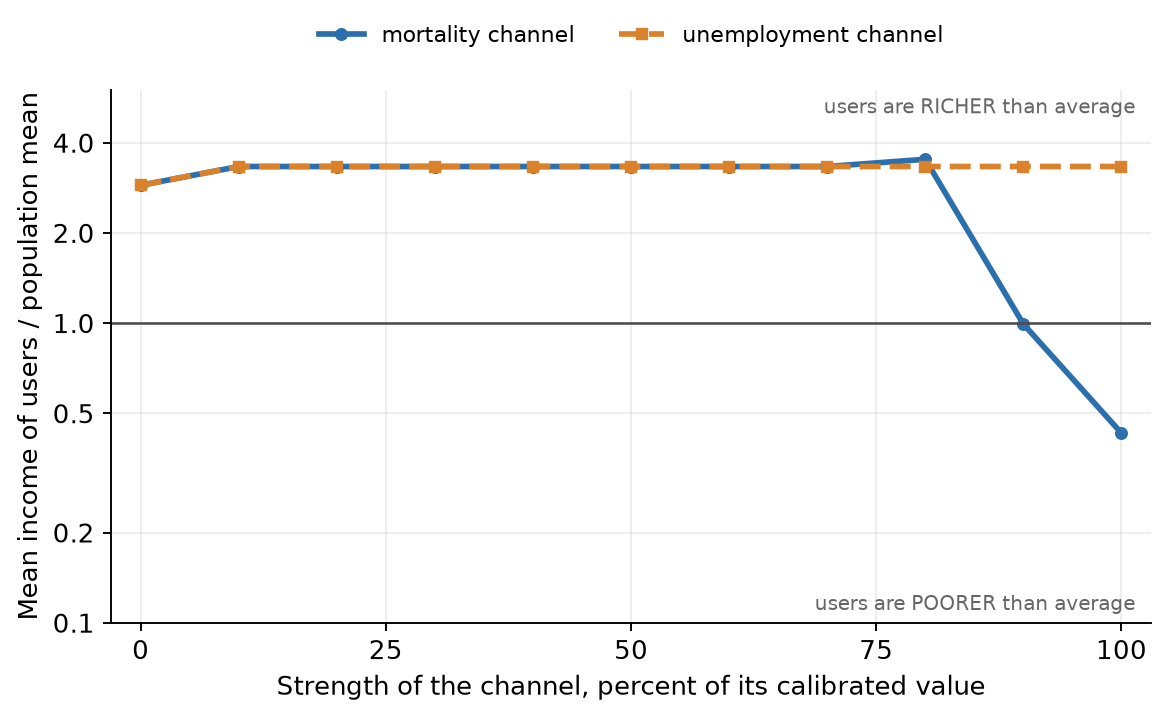
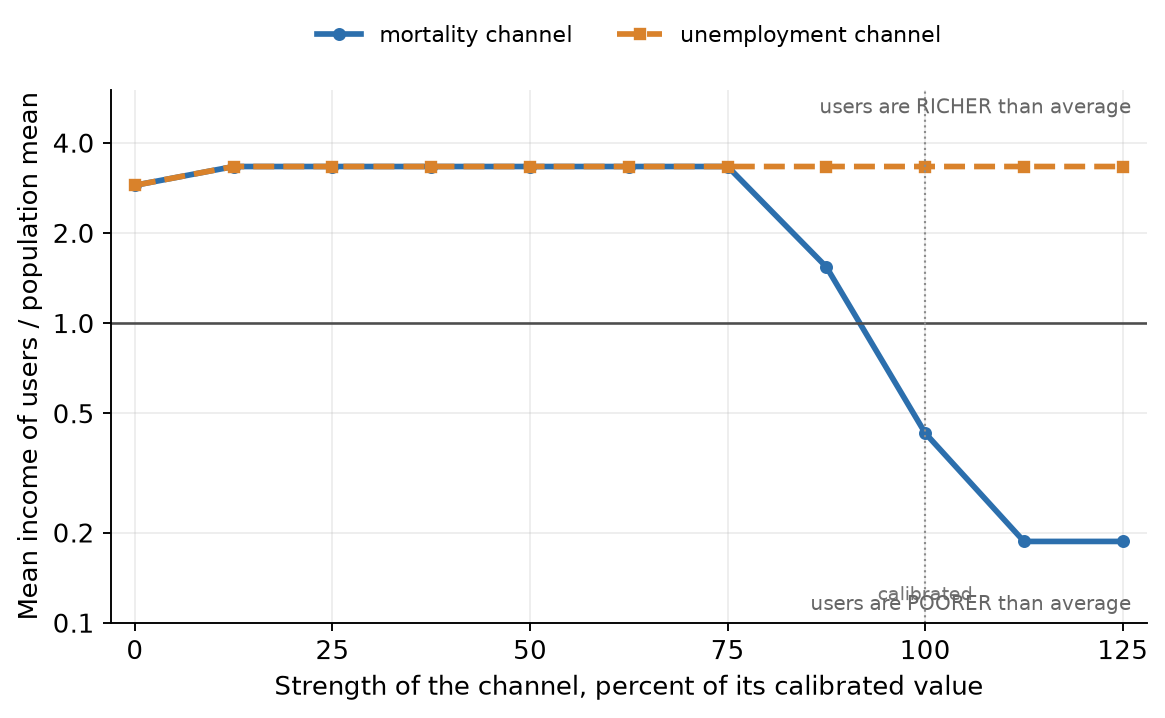
List what the full model prices that the stylized model does not
The externality section prices exactly one externality, and the ratio it reports
should not be read as an estimate of anything. Seven more channels are in the
quantitative model and they do not all pull the same way: the distortionary
labour income tax that clears the government budget, the clawbacks in the
transfers themselves, the disamenity of aggregate homelessness, the drug market
clearing at a finite supply elasticity, the feedback from homelessness onto
mortality and employment and recovery, partial altruism which shrinks the term
the section rests on, and the means test against a median the distribution
determines.

Only two have any counterpart in Section 1, and the first two run the opposite
way from the externality priced there, which is the point a referee would make
first. The rental market is deliberately not on the list: rents do not clear in
the written model.

diff --git a/writing/stylized_note.src.tex b/writing/stylized_note.src.tex
@@ -653,6 +653,58 @@ otherwise airtight, which is all it is for. Which way the comparison actually
 goes is a question about magnitudes, and that is what the quantitative model of
 the next section is for.
 
+{\color{red}
+It also prices exactly \emph{one} externality, because one is enough to make that
+point, and the reader should not take the ratio above as an estimate of anything.
+The quantitative model carries several more and they do not all pull the same
+way, which is the substantive reason the ranking there is a question of
+magnitudes rather than of signs.
+
+\begin{itemize}\setlength{\itemsep}{0.15em}
+\item \textbf{The government budget.} It clears at a distortionary labour income
+tax. A policy that houses more households spends more, so $\tau_{\ell}$ rises and
+the higher tax distorts hours and saving for \emph{every} household, including
+those the programme never reaches. This is the largest of the omissions and it
+runs against Housing First.
+
+\item \textbf{The transfers distort labour supply directly.} Food stamps claw
+back one for one and the voucher at $\kappa_r$, so the resources left over jump
+at the hours where each transfer is exhausted and the hours choice has several
+candidate roots. Conditionality then changes how much a household works, not only
+what it consumes. Here hours are fixed, so that margin does not exist.
+
+\item \textbf{Homelessness is a disamenity in itself.} Households dislike
+homelessness around them and not only their own, so the aggregate rate enters
+everyone's flow utility and is a genuine fixed point of the equilibrium. It is
+priced from what people say they would pay to end homelessness, and it runs
+\emph{for} whichever policy houses more.
+
+\item \textbf{The drug market clears.} Supply has a finite elasticity, so one
+household's use raises the price every other user pays. Here $p_v$ is a
+normalisation and that channel is absent entirely.
+
+\item \textbf{Homelessness feeds back on the disorder.} It raises mortality,
+worsens both employment margins and lowers the chance of recovering, so a spell
+on the street makes the disorder more likely to persist. Period~2 is terminal
+here, so none of that can operate.
+
+\item \textbf{Parents are partly altruistic.} The weight a parent puts on its
+child is calibrated rather than set to zero, so only the remainder of the damage
+in equation~\eqref{eq:kids} is external. That shrinks the very term this section
+rests on, and Section~\ref{sec:full} reports how far.
+
+\item \textbf{Eligibility and disability are fiscal facts about other people.}
+The means test is against the median income, which the distribution itself
+determines, and mental illness carries a disability benefit. Both make one
+household's income and health part of what every other household faces.
+\end{itemize}
+
+Only the third and the sixth of these have any counterpart in this section, and
+the sixth only as its absence. The first two in particular run the other way from
+the externality priced above, which is why nothing here should be read as
+settling the ranking.
+}
+
 %======================================================================
 \section{The quantitative model}\label{sec:full}
 

diff --git a/writing/tables/tab_channels.tex b/writing/tables/tab_channels.tex
@@ -9,5 +9,6 @@ Strength of the channel & $b$ & $\bar y_u/\bar y$ & $b$ & $\bar y_u/\bar y$ \\
 50\% & \textcolor{red}{0.0213} & \textcolor{red}{3.33} & \textcolor{red}{0.3123} & \textcolor{red}{3.33} \\
 75\% & \textcolor{red}{0.0061} & \textcolor{red}{3.33} & \textcolor{red}{0.2561} & \textcolor{red}{3.33} \\
 100\% & \textcolor{red}{0.0025} & \textcolor{red}{0.43} & \textcolor{red}{0.2168} & \textcolor{red}{3.33} \\
+125\% & \textcolor{red}{0.0017} & \textcolor{red}{0.19} & \textcolor{red}{0.1874} & \textcolor{red}{3.33} \\
 \bottomrule
 \end{tabular}
